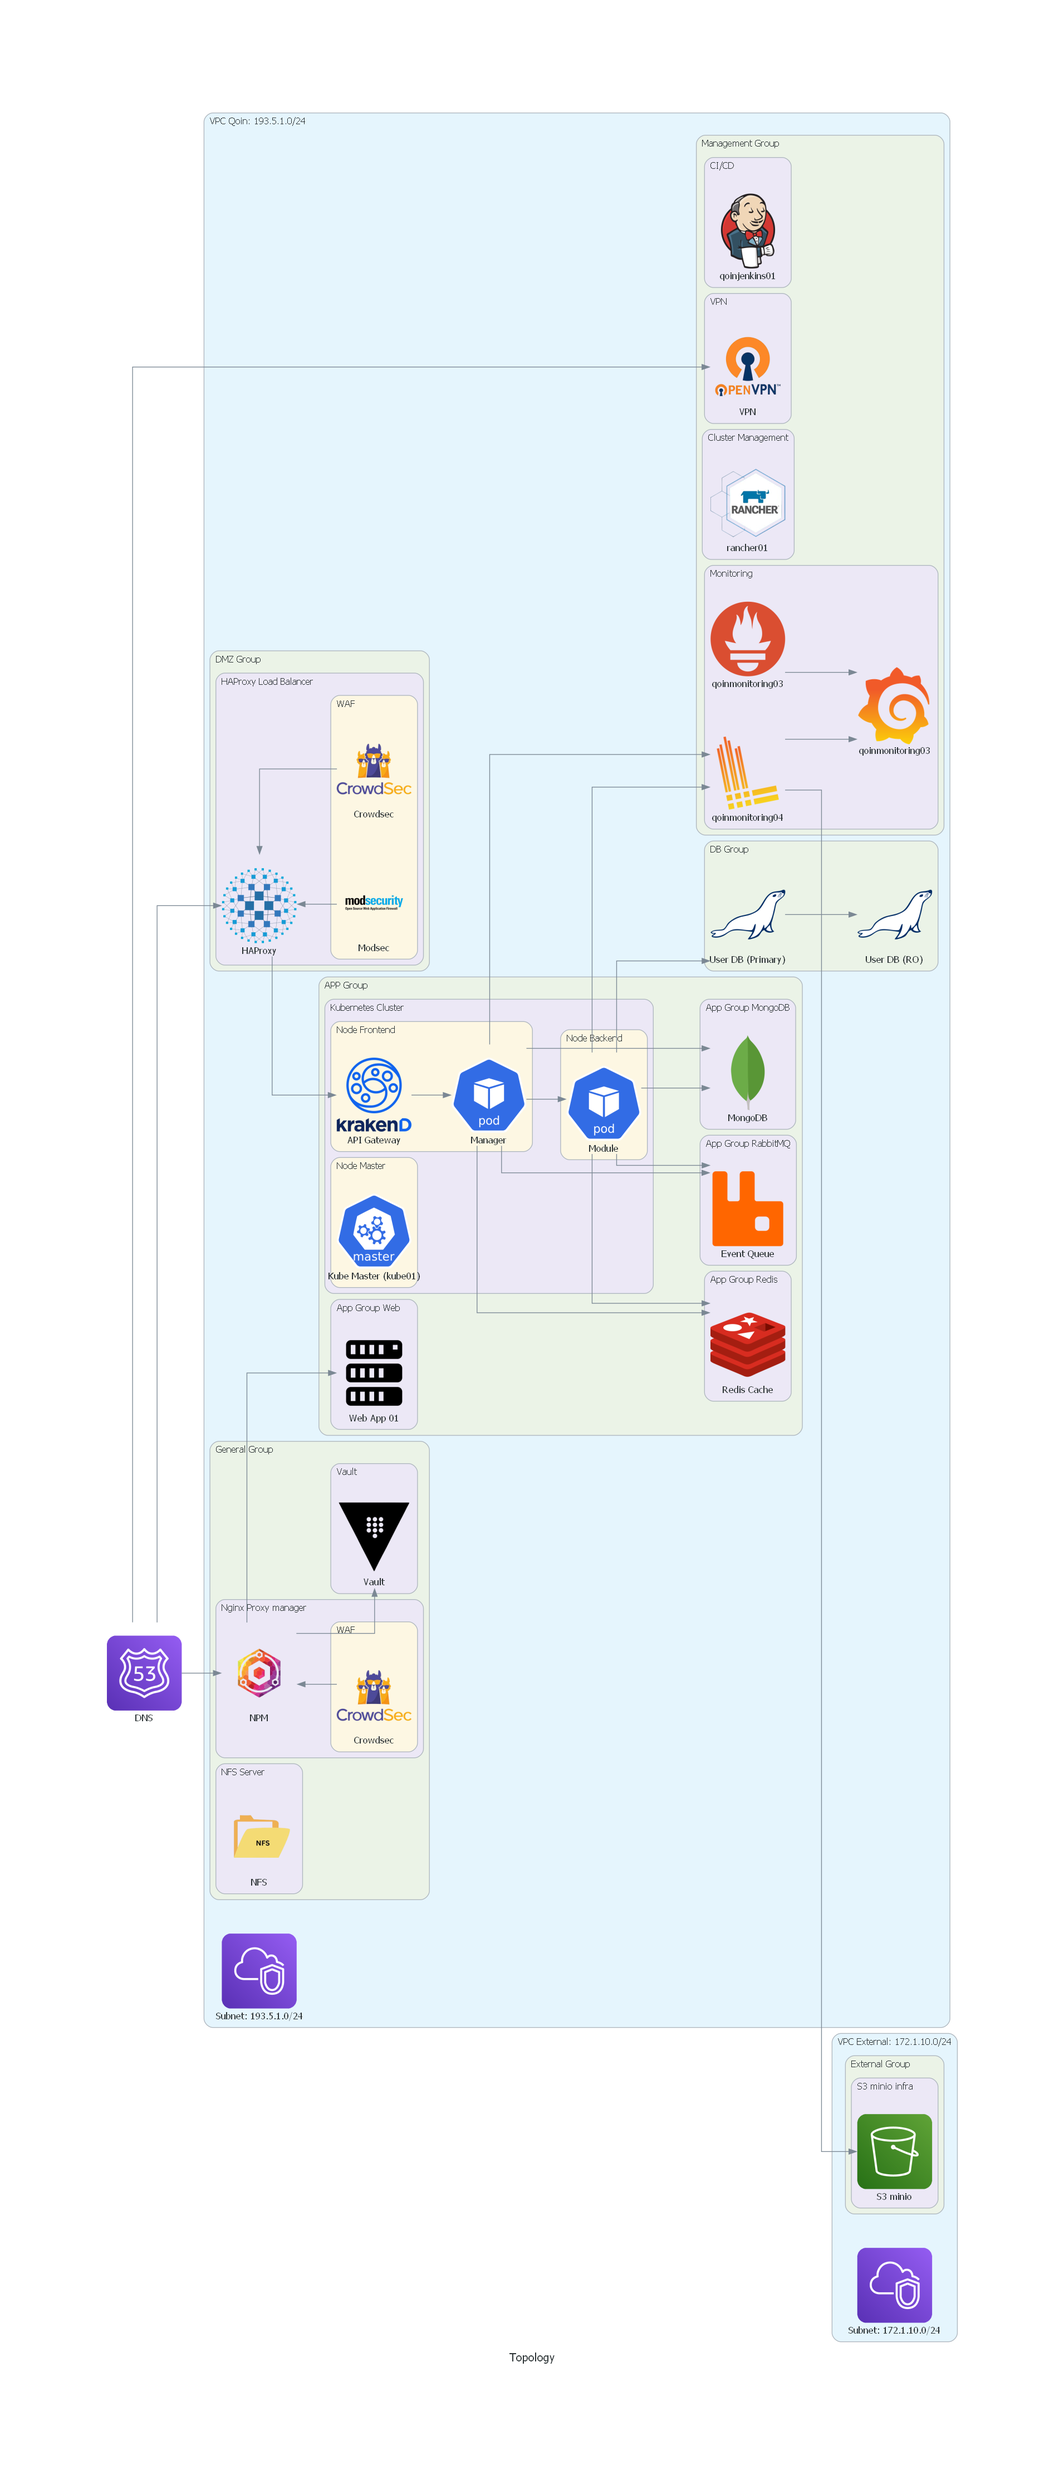
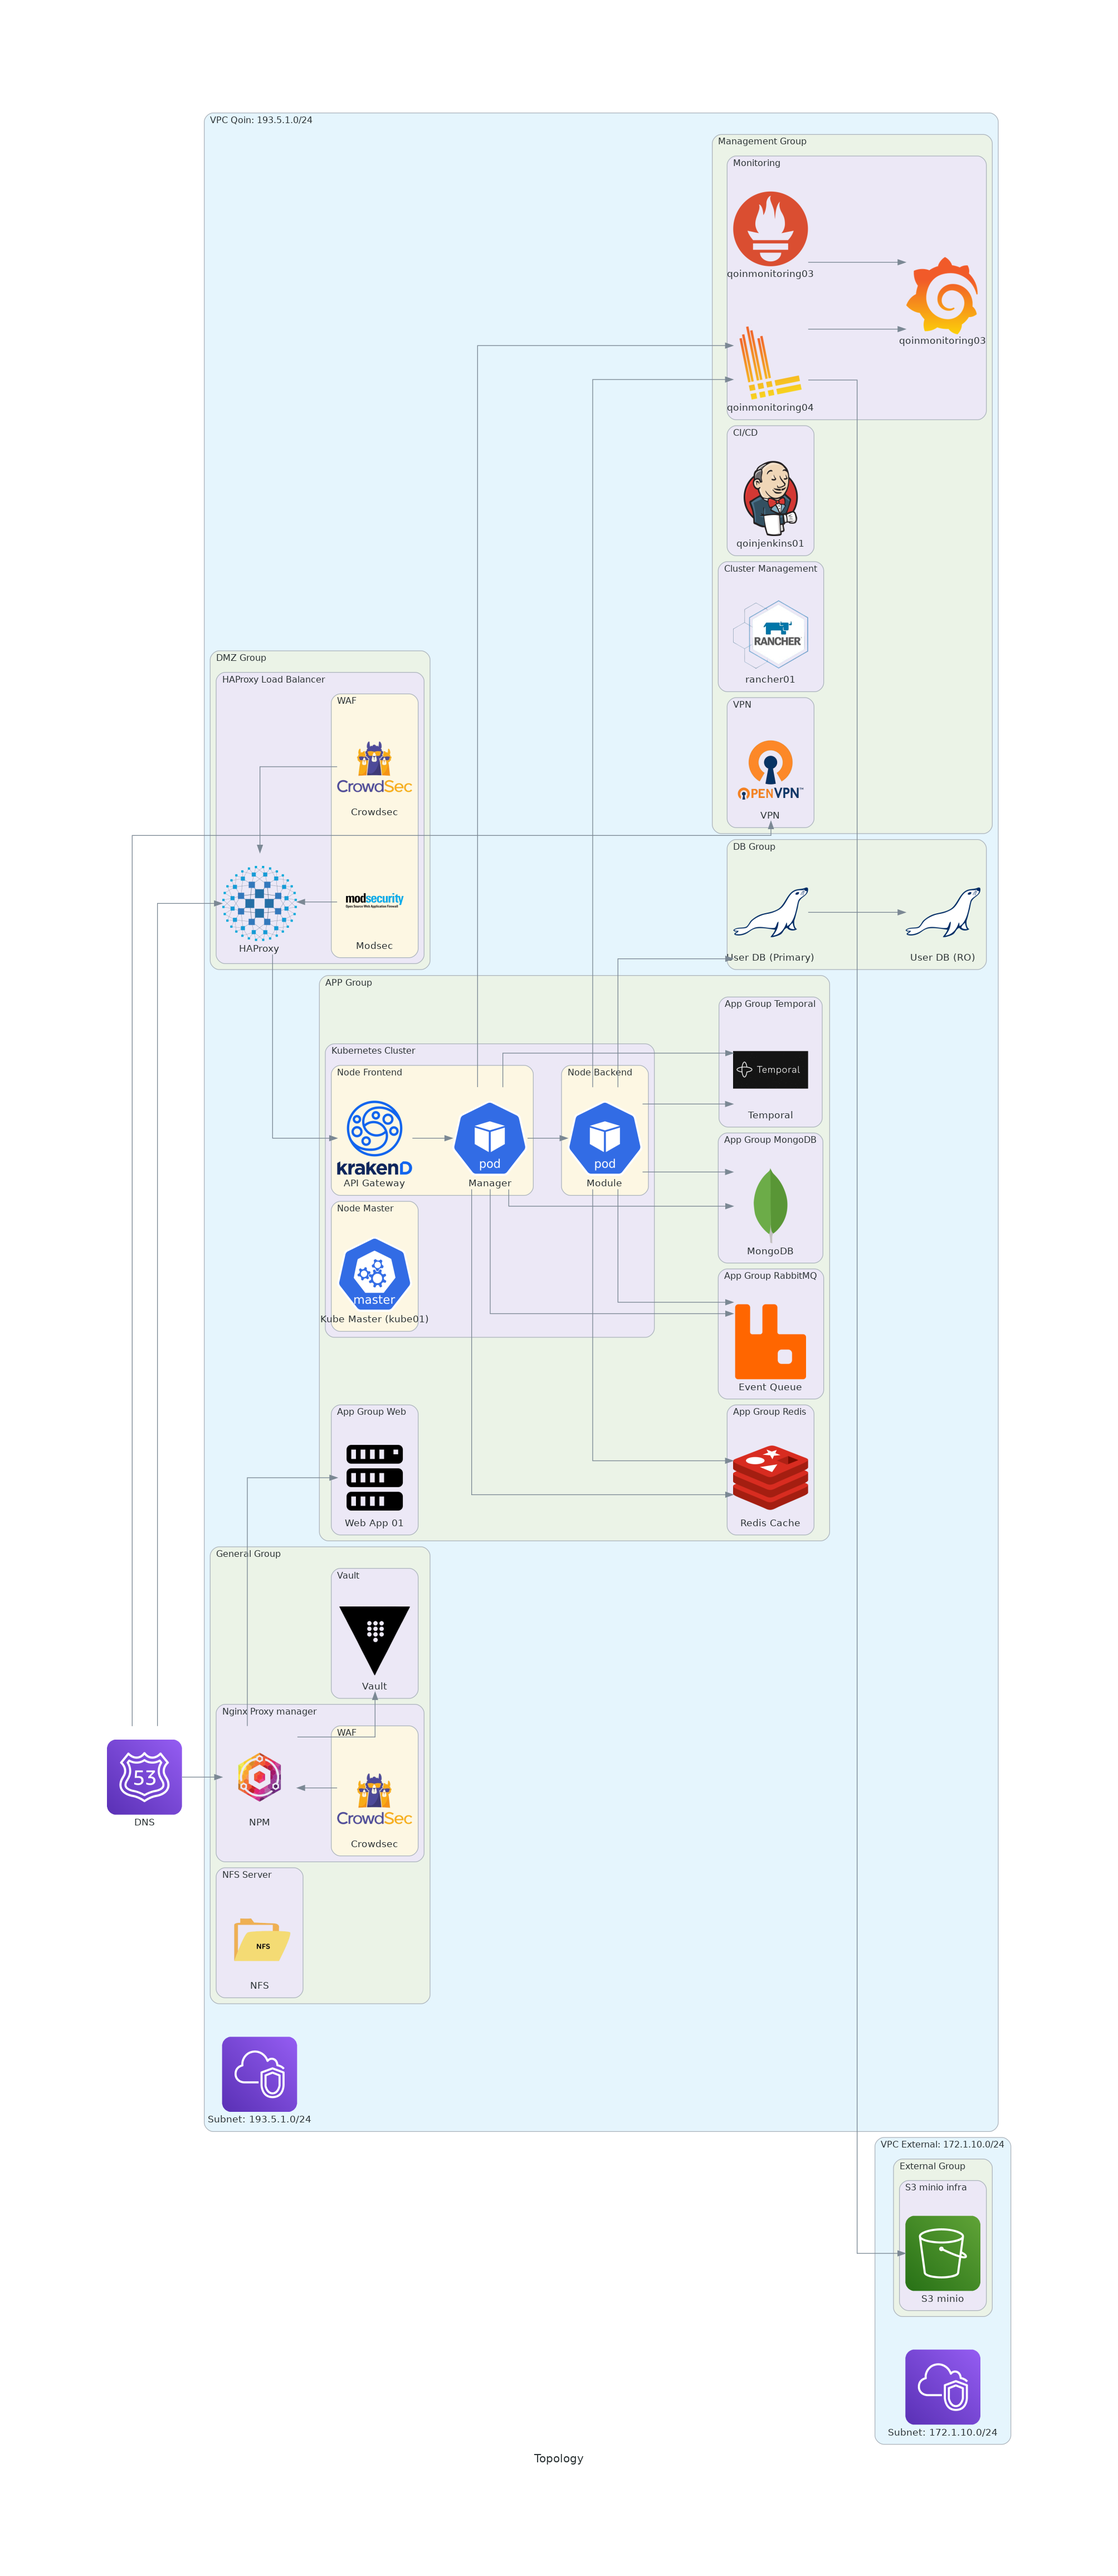
md

diff --git a/gcp_topology.py b/gcp_topology.py
@@ -1,0 +1,36 @@
+from diagrams import Cluster, Diagram, Edge
+from diagrams.gcp.network import LoadBalancing, VPC
+from diagrams.onprem.network import Haproxy
+from diagrams.gcp.compute import GKE
+
+with Diagram("GCP High Availability Topology", filename="gcp_topology", show=False, direction="LR"):
+    vip = LoadBalancing("External Virtual IP")
+
+    with Cluster("Google Cloud Project"):
+        with Cluster("VPC Network"):
+            
+            with Cluster("Regional Infrastructure (us-central1)"):
+                
+                with Cluster("Availability Zone: zone-a"):
+                    haproxy_a = Haproxy("HAProxy-A")
+                    
+                with Cluster("Availability Zone: zone-b"):
+                    haproxy_b = Haproxy("HAProxy-B")
+
+                with Cluster("GKE Cluster"):
+                    with Cluster("Node Group: Frontend"):
+                        front_nodes = [GKE("front-node-1"),
+                                       GKE("front-node-2")]
+                    
+                    with Cluster("Node Group: Backend"):
+                        back_nodes = [GKE("back-node-1"),
+                                      GKE("back-node-2")]
+
+    # Connections with styling
+    vip >> Edge(color="firebrick", style="dashed", label="public traffic") >> [haproxy_a, haproxy_b]
+    
+    haproxy_a >> Edge(color="darkgreen") >> front_nodes
+    haproxy_b >> Edge(color="darkgreen") >> front_nodes
+    
+    for front in front_nodes:
+        front >> Edge(color="blue", style="dotted") >> back_nodes

diff --git a/topology.py b/topology.py
@@ -61,6 +61,9 @@ with Diagram("Topology", show=False, direction="LR"):
             with Cluster("App Group Redis"):
                 cache = Redis("Redis Cache")
 
+            with Cluster("App Group Temporal"):
+                temporal = Custom("Temporal", "./src/temporal.png")
+
             with Cluster("App Group RabbitMQ"):
                 queue = RabbitMQ("Event Queue")
 
@@ -140,6 +143,9 @@ with Diagram("Topology", show=False, direction="LR"):
         # MongoDB Access
         svc_manager >> mongodb
         svc_module >> mongodb
+
+        svc_manager >> temporal
+        svc_module >> temporal
 
         svc_manager >> loki
         svc_module >> loki

diff --git a/GCP.md b/GCP.md
@@ -1,0 +1,137 @@
+# Arsitektur Topologi GCP High Availability
+
+Dokumen ini menjelaskan desain infrastruktur Google Cloud Platform (GCP) yang mencakup 2 Zona, HAProxy (VM WAF), dan GKE Cluster dengan pemisahan Node Groups.
+
+## Diagram Arsitektur
+
+```mermaid
+flowchart TB
+    User((User))
+    Rintis(("Infra Eksternal: Rintis"))
+
+    subgraph GCP ["Google Cloud Platform (GCP)"]
+        subgraph Region ["Region: asia-southeast2 (Jakarta, Indonesia)"]
+            
+            VIP(("Virtual IP (VIP)"))
+            
+            subgraph VPC ["VPC Network"]
+                
+                subgraph ZoneA ["Zone: asia-southeast2-a"]
+                    direction TB
+                    VM_WAF_A["VM WAF"]
+                    
+                    subgraph GKEA ["GKE Nodes - Zona A"]
+                        NG_Front_A["NodeGroup (Fixed IP Rintis): front (API Gateway & Frontend Pods)"]
+                        NG_Back_A["NodeGroup: back (Backend Pods)"]
+                        NG_General_A["NodeGroup: general (Management, Temporal, Monitoring Pods)"]
+                    end
+                    
+                    DB_Primary[("Cloud SQL Primary Private IP")]
+                    DB_Replica_2[("Cloud SQL Replica 2 Read Replica")]
+                end
+                
+                subgraph ZoneB ["Zone: asia-southeast2-b"]
+                    direction TB
+                    VM_WAF_B["VM WAF"]
+                    
+                    subgraph GKEB ["GKE Nodes - Zona B"]
+                        NG_Front_B["NodeGroup: front (API Gateway & Frontend Pods)"]
+                        NG_Back_B["NodeGroup: back (Backend Pods)"]
+                        NG_General_B["NodeGroup: general (Management, Temporal, Monitoring Pods)"]
+                    end
+                    
+                    DB_Replica_1[("Cloud SQL Replica 1 HA Standby / Read Replica")]
+                end
+                
+                %% Kelompok GCP Managed Services (PaaS/DBaaS)
+                subgraph ManagedServices ["Managed GCP Services"]
+                    Managed_Redis[("Memorystore for Redis")]
+                    Managed_Mongo[("Managed MongoDB (Atlas on GCP)")]
+                    Managed_Rabbit[("Managed RabbitMQ (Marketplace)")]
+                end
+                
+                CP["GKE Control Plane (HA - Dikelola oleh Google)"]
+            end
+            
+            %% Alur Trafik Eksternal ke VM WAF
+            User -->|Akses Publik| VIP
+            VIP -->|Network LB / Failover| VM_WAF_A
+            VIP -->|Network LB / Failover| VM_WAF_B
+            
+            %% Alur Trafik VM WAF ke GKE Front
+            VM_WAF_A -->|NodePort API Gateway| NG_Front_A
+            VM_WAF_A -->|NodePort API Gateway| NG_Front_B
+            VM_WAF_B -->|NodePort API Gateway| NG_Front_A
+            VM_WAF_B -->|NodePort API Gateway| NG_Front_B
+            
+            %% Alur Trafik Internal GKE
+            NG_Front_A -->|Internal Service| NG_Back_A
+            NG_Front_A -->|Internal Service| NG_Back_B
+            NG_Front_B -->|Internal Service| NG_Back_A
+            NG_Front_B -->|Internal Service| NG_Back_B
+            
+            %% Akses Database Relasional (Hanya dari Backend)
+            NG_Back_A -->|Koneksi Cloud SQL| DB_Primary
+            NG_Back_B -->|Koneksi Cloud SQL| DB_Primary
+            
+            %% Database Replication
+            DB_Primary -. Replikasi Sinkron HA .-> DB_Replica_1
+            DB_Primary -. Replikasi Asinkron Read .-> DB_Replica_2
+            
+            %% Akses ke Managed Services (Redis, Mongo, RabbitMQ)
+            NG_Front_A & NG_Front_B -->|Akses Cache, NoSQL, MQ| ManagedServices
+            NG_Back_A & NG_Back_B -->|Akses Cache, NoSQL, MQ| ManagedServices
+            
+            %% Hubungan Manajemen Control Plane
+            CP -. Manajemen Cluster .-> GKEA
+            CP -. Manajemen Cluster .-> GKEB
+        end
+    end
+
+    %% Koneksi Tunneling Rintis
+    Rintis <==>|Tunneling IPsec atau Dedicated| NG_Front_A
+
+    %% Styling
+    classDef gcp fill:#e3f2fd,stroke:#1565c0,stroke-width:2px,color:#000;
+    classDef region fill:#fff3e0,stroke:#e65100,stroke-width:2px,color:#000;
+    classDef vpc fill:#f3e5f5,stroke:#4a148c,stroke-width:2px,color:#000;
+    classDef gke fill:#e8f5e9,stroke:#2e7d32,stroke-width:2px,color:#000;
+    classDef zone fill:#ffffff,stroke:#37474f,stroke-width:1px,stroke-dasharray: 5 5,color:#000;
+    classDef front fill:#bbdefb,stroke:#1976d2,stroke-width:1px,color:#000;
+    classDef back fill:#ffcdd2,stroke:#c62828,stroke-width:1px,color:#000;
+    classDef general fill:#f5f5f5,stroke:#757575,stroke-width:1px,color:#000;
+    classDef proxy fill:#ffe082,stroke:#f57f17,stroke-width:2px,color:#000;
+    classDef cp fill:#cfd8dc,stroke:#455a64,stroke-width:1px,color:#000;
+    classDef vip fill:#ffecb3,stroke:#ffb300,stroke-width:2px,color:#000;
+    classDef external fill:#f8bbd0,stroke:#c2185b,stroke-width:2px,color:#000;
+    classDef database fill:#b2dfdb,stroke:#00796b,stroke-width:2px,color:#000;
+    classDef managed fill:#d1c4e9,stroke:#512da8,stroke-width:2px,color:#000;
+
+    class GCP gcp;
+    class Region region;
+    class VPC vpc;
+    class GKEA,GKEB gke;
+    class ZoneA,ZoneB zone;
+    class NG_Front_A,NG_Front_B front;
+    class NG_Back_A,NG_Back_B back;
+    class NG_General_A,NG_General_B general;
+    class VM_WAF_A,VM_WAF_B proxy;
+    class CP cp;
+    class VIP vip;
+    class Rintis external;
+    class DB_Primary,DB_Replica_1,DB_Replica_2 database;
+    class Managed_Redis,Managed_Mongo,Managed_Rabbit managed;
+```
+
+## Ringkasan Komponen
+
+| Komponen | Deskripsi |
+| --- | --- |
+| **VIP** | Virtual IP yang berfungsi sebagai entry point traffic publik. |
+| **VM WAF** | Instance VM yang menjalankan HAProxy dan Web Application Firewall. |
+| **GKE front** | Node Group khusus untuk API Gateway dan Frontend Pods. |
+| **GKE back** | Node Group khusus untuk Backend Pods dengan akses ke Database. |
+| **GKE general** | Node Group untuk layanan manajemen, monitoring, dan workflow. |
+| **Cloud SQL** | Database relasional terkelola dengan konfigurasi High Availability. |
+| **Managed GCP** | Layanan PaaS seperti Memorystore (Redis) dan MongoDB Atlas. |
+| **Rintis** | Infrastruktur eksternal yang terhubung melalui tunnel IPsec/Dedicated. |

diff --git a/topology.md b/topology.md
@@ -1,0 +1,138 @@
+# Diagram Topologi Qoin
+
+Diagram ini merupakan konversi arsitektur dari file `topology.py` ke format Markdown Mermaid.js.
+
+```mermaid
+flowchart LR
+    DNS["Route53 (DNS)"]
+
+    subgraph VPC_Ext ["VPC External: 172.1.10.0/24"]
+        subgraph Ext_Grp ["External Group"]
+            subgraph S3_Minio ["S3 minio infra"]
+                minio02[("S3 minio")]
+            end
+        end
+    end
+
+    subgraph VPC_Qoin ["VPC Qoin: 193.5.1.0/24"]
+        subgraph DMZ ["DMZ Group"]
+            subgraph HALB ["HAProxy Load Balancer"]
+                lb["HAProxy"]
+                subgraph WAF_DMZ ["WAF"]
+                    crowdsec_dmz["Crowdsec"]
+                    modsec_dmz["Modsec"]
+                end
+            end
+        end
+
+        subgraph APP ["APP Group"]
+            subgraph K8S ["Kubernetes Cluster"]
+                subgraph Node_Front ["Node Frontend"]
+                    svc_apigw["API Gateway (Krakend)"]
+                    svc_manager["Manager"]
+                end
+                subgraph Node_Back ["Node Backend"]
+                    svc_module["Module"]
+                end
+                subgraph Node_Master ["Node Master"]
+                    kube_master["Kube Master (kube01)"]
+                end
+            end
+
+            subgraph App_Web ["App Group Web"]
+                web01["Web App 01"]
+            end
+
+            subgraph App_Redis ["App Group Redis"]
+                cache[("Redis Cache")]
+            end
+
+            subgraph App_Temporal ["App Group Temporal"]
+                temporal["Temporal"]
+            end
+
+            subgraph App_RabbitMQ ["App Group RabbitMQ"]
+                queue[["Event Queue"]]
+            end
+
+            subgraph App_MongoDB ["App Group MongoDB"]
+                mongodb[("MongoDB")]
+            end
+        end
+
+        subgraph DB ["DB Group"]
+            db_primary[("User DB (Primary)")]
+            db_replicas[("User DB (RO)")]
+        end
+
+        subgraph Management ["Management Group"]
+            subgraph Monitoring ["Monitoring"]
+                grafana["Grafana (qoinmonitoring03)"]
+                prometheus["Prometheus (qoinmonitoring03)"]
+                loki["Loki (qoinmonitoring04)"]
+            end
+            subgraph CICD ["CI/CD"]
+                jenkins["Jenkins (qoinjenkins01)"]
+            end
+            subgraph Cluster_Mgmt ["Cluster Management"]
+                rancher["Rancher (rancher01)"]
+            end
+            subgraph VPN_Grp ["VPN"]
+                vpn["OpenVPN"]
+            end
+        end
+
+        subgraph General ["General Group"]
+            subgraph NPM_Grp ["Nginx Proxy Manager"]
+                npm["NPM"]
+                subgraph WAF_Gen ["WAF"]
+                    crowdsec_general["Crowdsec"]
+                end
+            end
+            subgraph Vault_Grp ["Vault"]
+                vault["Vault"]
+            end
+            subgraph NFS_Grp ["NFS Server"]
+                nfs[("NFS Server")]
+            end
+        end
+    end
+
+    %% Connections
+    DNS --> lb
+    DNS --> npm
+    DNS --> vpn
+
+    lb --> svc_apigw
+    crowdsec_dmz --> lb
+    modsec_dmz --> lb
+
+    svc_apigw --> svc_manager
+    svc_manager --> svc_module
+
+    svc_manager --> cache
+    svc_module --> cache
+
+    svc_manager --> queue
+    svc_module --> queue
+
+    svc_module --> db_primary
+    db_primary --> db_replicas
+
+    npm --> web01
+    npm --> vault
+    crowdsec_general --> npm
+
+    svc_manager --> mongodb
+    svc_module --> mongodb
+
+    svc_manager --> temporal
+    svc_module --> temporal
+
+    svc_manager --> loki
+    svc_module --> loki
+
+    prometheus --> grafana
+    loki --> grafana
+    loki --> minio02
+```
